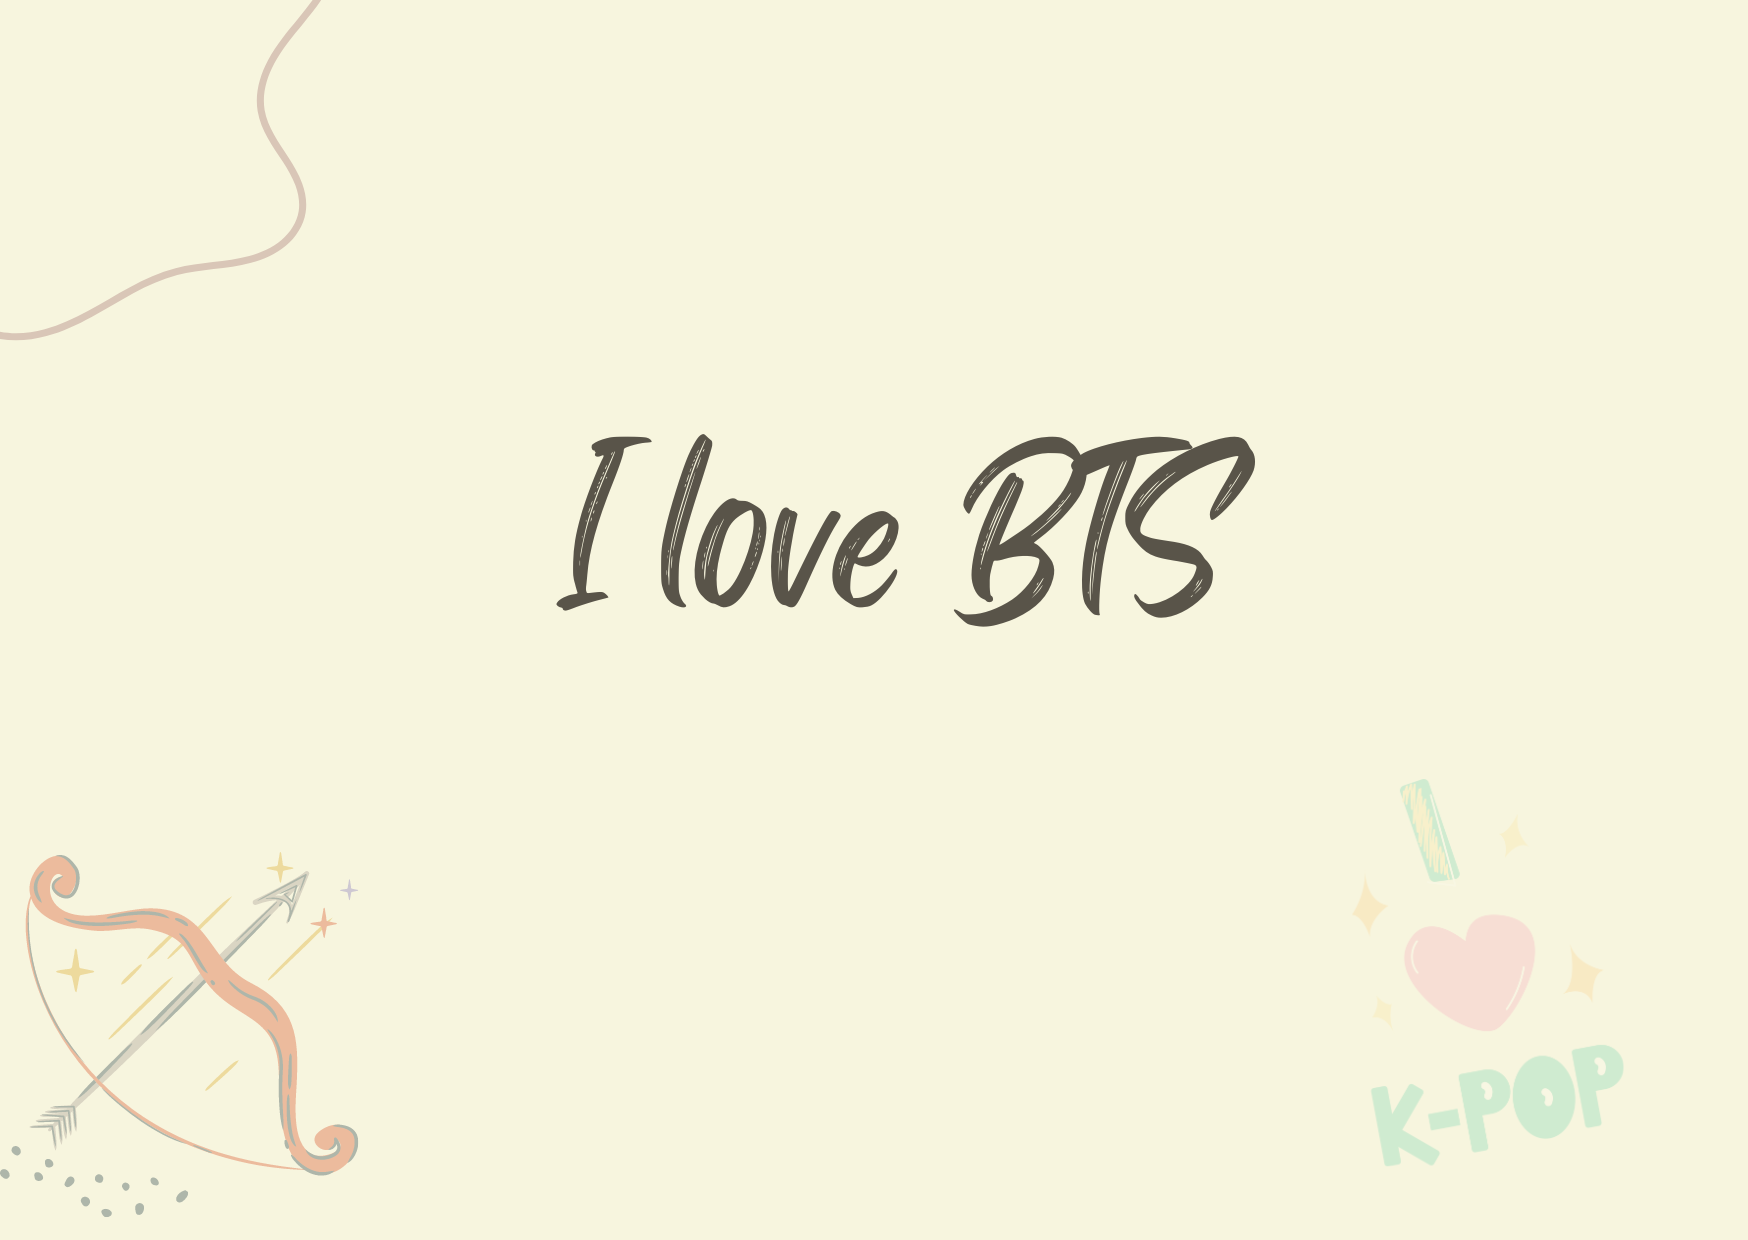
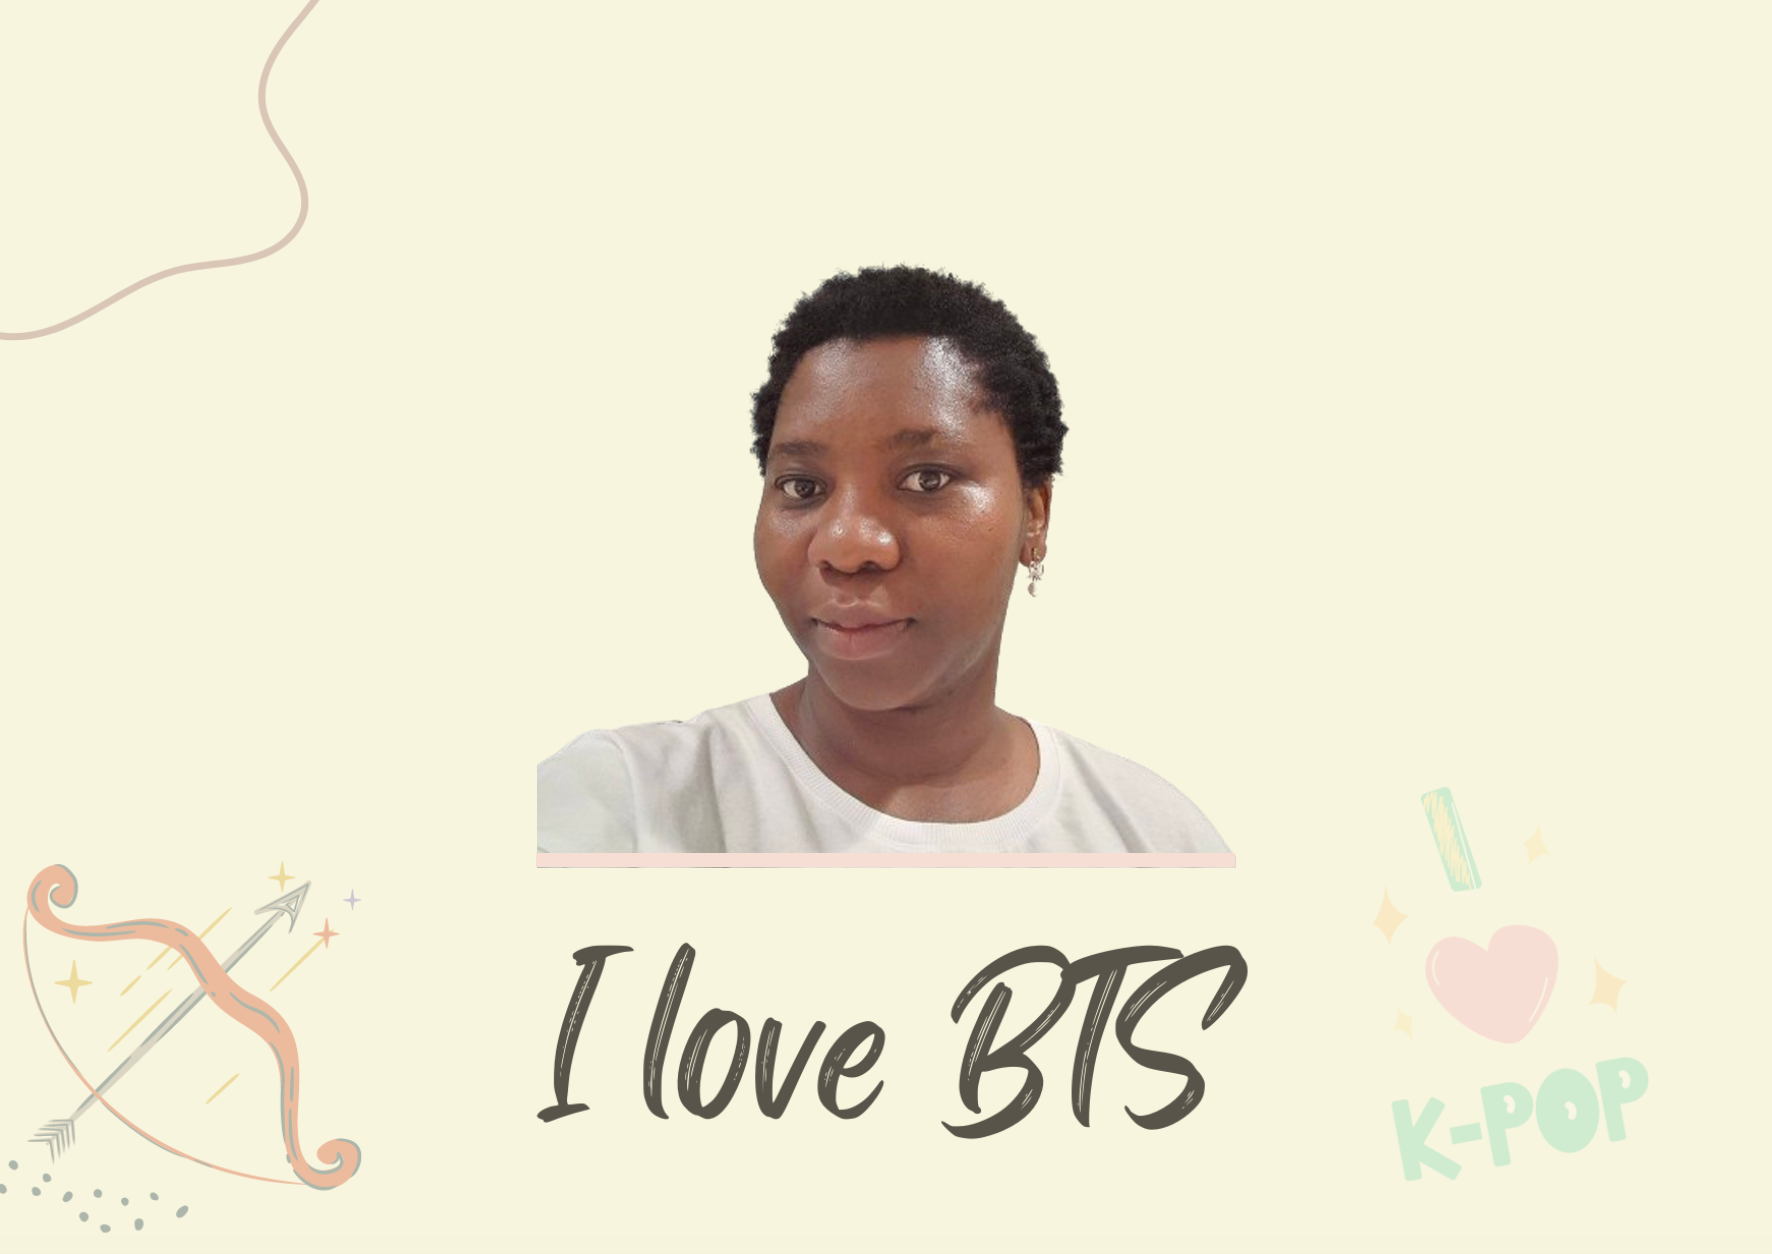
ReCaptcha is working + added a picture in one of the slide

diff --git a/src/Pages/Contact.jsx b/src/Pages/Contact.jsx
@@ -11,9 +11,18 @@ export const Contact = () => {
   const [messageStatus, setMessageStatus] = useState("");
   const recaptcha = useRef();
 
-  const sendEmail = (e) => {
-    e.preventDefault();
+  async function handleSubmit(event) {
+    event.preventDefault();
+    const captchaValue = recaptcha.current.getValue();
+    if (!captchaValue) {
+      alert("Please verify the reCAPTCHA!");
+    } else {
+      sendEmail();
+      submitForm();
+    }
+  }
 
+  function sendEmail() {
     emailjs
       .sendForm("service_1h8su7n", "template_o1odrcq", form.current, {
         publicKey: "mVseHYyiuFmFU-pTL",
@@ -29,28 +38,11 @@ export const Contact = () => {
           );
         }
       );
-  };
-  async function submitForm(event) {
-    event.preventDefault();
-    const captchaValue = recaptcha.current.getValue();
-    if (!captchaValue) {
-      alert("Please verify the reCAPTCHA!");
-    } else {
-      const res = await fetch("http://localhost:8000/verify", {
-        method: "POST",
-        body: JSON.stringify({ captchaValue }),
-        headers: {
-          "content-type": "application/json",
-        },
-      });
-      const data = await res.json();
-      if (data.success) {
-        // make form submission
-        alert("Form submission successful!");
-      } else {
-        alert("reCAPTCHA validation failed!");
-      }
-    }
+  }
+
+  function submitForm() {
+    // Additional logic for form submission if needed
+    alert("Form submission successful!");
   }
 
   return (
@@ -58,13 +50,13 @@ export const Contact = () => {
       <div className="AdjustNav">
         <Navbar />
       </div>
-      <form onSubmit={submitForm} ref={form} onSubmit={sendEmail}>
+      <form onSubmit={handleSubmit} ref={form}>
         <div className="formHeading">
           <h3>Get in Touch</h3>
           <p>Thank you for visiting my portfolio website</p>
         </div>
         <div className="name">
-          <label for="name">
+          <label htmlFor="name">
             <input
               type="text"
               name="from_name"
@@ -77,7 +69,7 @@ export const Contact = () => {
           </label>
         </div>
         <div className="email">
-          <label for="email">
+          <label htmlFor="email">
             <input
               type="email"
               name="from_email"
@@ -90,7 +82,7 @@ export const Contact = () => {
         </div>
 
         <div className="textarea">
-          <label for="textarea">
+          <label htmlFor="textarea">
             <textarea
               name="message"
               id="textarea"
@@ -122,6 +114,7 @@ export const Contact = () => {
 };
 
 export default Contact;
+
 function handleEmailChange(event) {
   const email = event.target.value;
   const emailPattern = /^[a-zA-Z0-9._%+-]+@[a-zA-Z0-9.-]+\.[a-zA-Z]{2,}$/;
